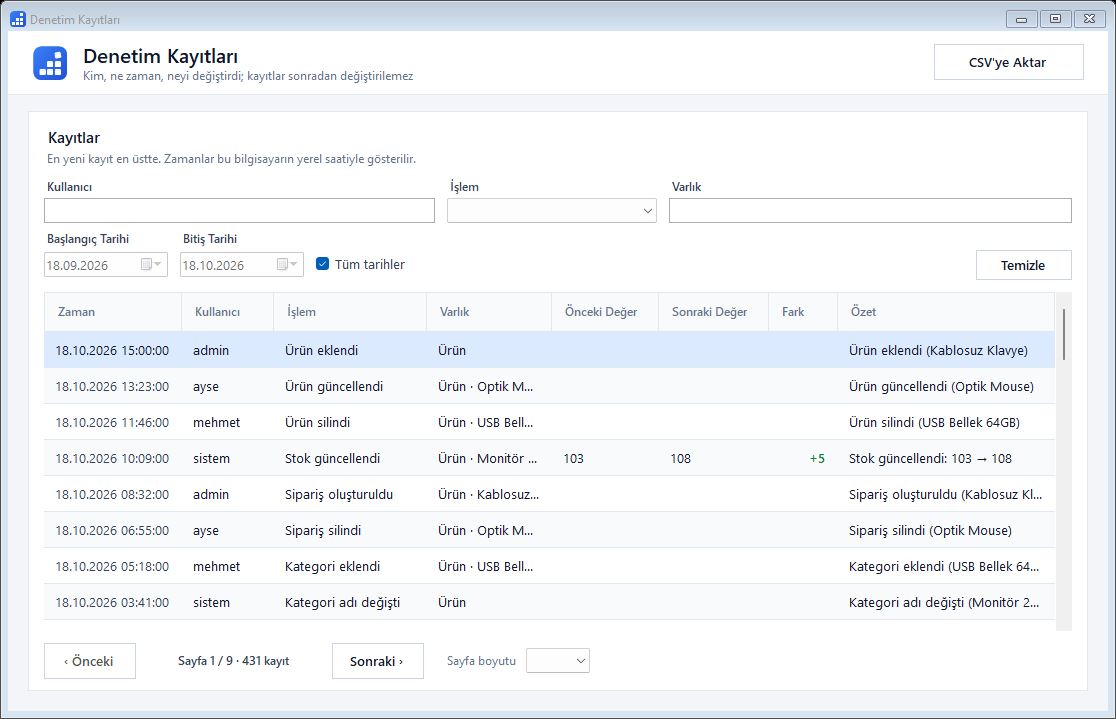
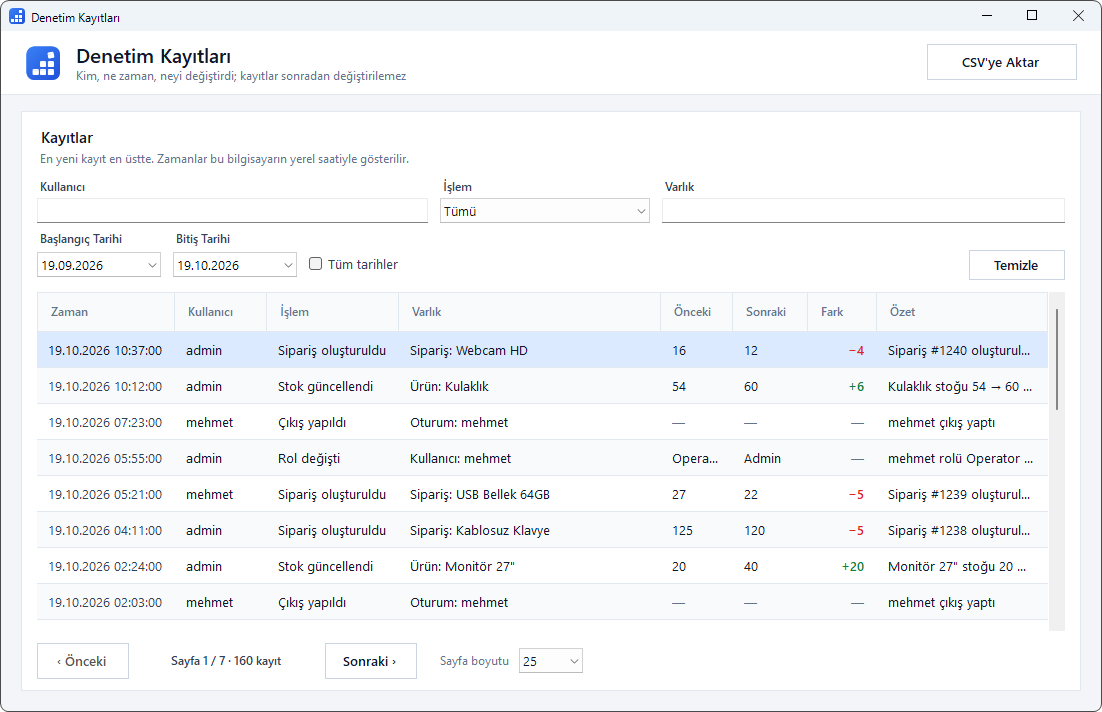
fix(ui): clearer asset column in audit log and consistent screenshots

diff --git a/tests/StokTakip.UI.Tests/DenetimSutunlariTests.cs b/tests/StokTakip.UI.Tests/DenetimSutunlariTests.cs
@@ -1,0 +1,68 @@
+using System.Drawing;
+using System.Windows.Forms;
+using NSubstitute;
+using StokTakip.Application.Denetim;
+using StokTakip.Domain;
+using StokTakip.Presenters;
+using StokTakip.Views;
+
+namespace StokTakip.UI.Tests;
+
+public class DenetimSutunlariTests
+{
+    private static DenetimKaydiDto Kayit(string tur, int? id, string? ad, string? eski = null, string? yeni = null, int? fark = null) =>
+        new(1, new DateTime(2026, 10, 18, 9, 0, 0, DateTimeKind.Utc), 1, "admin", DenetimIslemi.UrunGuncellendi, tur, id, ad, eski, yeni, fark, "özet");
+
+    [Fact]
+    public void Varlik_turu_ve_adi_kisa_bicimde_birlesir()
+    {
+        var presenter = new DenetimKayitlariPresenter(Substitute.For<Microsoft.Extensions.DependencyInjection.IServiceScopeFactory>(), TimeProvider.System);
+
+        Assert.Equal("Ürün: Optik Mouse", presenter.SatirOlustur(Kayit("Ürün", 2, "Optik Mouse")).Varlik);
+        Assert.Equal("Sipariş #7", presenter.SatirOlustur(Kayit("Sipariş", 7, null)).Varlik);
+        Assert.Equal("Oturum", presenter.SatirOlustur(Kayit("Oturum", null, null)).Varlik);
+    }
+
+    [Fact]
+    public void Varlik_sutunu_varsayilan_boyutta_okunur_bos_degerler_isaretlenir_ve_ipucu_tam_metni_verir()
+        => Sta.Calistir(() =>
+        {
+            using var form = new DenetimKayitlariForm(Substitute.For<IDenetimKayitlariPresenter>());
+            TaniticilariOlustur(form);
+            form.PerformLayout();
+
+            var satirlar = new[]
+            {
+                new DenetimSatiri("18.10.2026 12:00:00", "admin", "Ürün güncellendi", "Ürün: USB Bellek 64GB", "", "", "", null, "USB Bellek 64GB ürünü güncellendi"),
+                new DenetimSatiri("18.10.2026 11:00:00", "ayse", "Stok güncellendi", "Ürün: Optik Mouse", "8", "40", "+32", 32, "Stok güncellendi: 8 → 40"),
+            };
+            ((IDenetimKayitlariView)form).SayfayiGoster(satirlar, 1, 1, satirlar.Length);
+
+            var dgv = (DataGridView)form.Controls.Find("dgvKayitlar", true).Single();
+            DataGridViewColumn varlik = dgv.Columns["Varlik"]!;
+            DataGridViewColumn ozet = dgv.Columns["Ozet"]!;
+            Font font = dgv.DefaultCellStyle.Font ?? dgv.Font;
+            int gereken = TextRenderer.MeasureText(satirlar[0].Varlik, font).Width + dgv.DefaultCellStyle.Padding.Horizontal;
+
+            Assert.True(varlik.Width >= gereken, $"Varlık sütunu dar: {varlik.Width} < {gereken}");
+            Assert.True(varlik.Width >= ozet.Width, $"Varlık ({varlik.Width}) Özet'ten ({ozet.Width}) dar.");
+            Assert.Equal(DenetimKayitlariForm.BosDeger, dgv.Rows[0].Cells["EskiDeger"].FormattedValue);
+            Assert.Equal(DenetimKayitlariForm.BosDeger, dgv.Rows[0].Cells["Fark"].FormattedValue);
+            Assert.Equal("8", dgv.Rows[1].Cells["EskiDeger"].FormattedValue);
+            Assert.Equal("Ürün: USB Bellek 64GB", dgv.Rows[0].Cells["Varlik"].ToolTipText);
+
+            form.ClientSize = form.MinimumSize;
+            form.PerformLayout();
+            Assert.True(varlik.Width >= TextRenderer.MeasureText("Ürün: Optik Mouse", font).Width, $"Küçük pencerede Varlık sütunu çok dar: {varlik.Width}");
+            Assert.False(form.Visible);
+        });
+
+    private static void TaniticilariOlustur(Control kontrol)
+    {
+        _ = kontrol.Handle;
+        foreach (Control alt in kontrol.Controls)
+        {
+            TaniticilariOlustur(alt);
+        }
+    }
+}

diff --git a/src/StokTakip.UI/DenetimKayitlariForm.cs b/src/StokTakip.UI/DenetimKayitlariForm.cs
@@ -13,6 +13,7 @@ namespace StokTakip
     public partial class DenetimKayitlariForm : Form, IDenetimKayitlariView
     {
         private const int VarsayilanSayfaBoyutu = 50;
+        internal const string BosDeger = "—";
 
         private readonly BindingList<DenetimSatiri> _kayitlar = new BindingList<DenetimSatiri>();
         private readonly YuklemeGostergesi _yuklemeGostergesi;
@@ -37,10 +38,10 @@ namespace StokTakip
             bsKayitlar.DataSource = _kayitlar;
             dgvKayitlar.DataBindingComplete += (s, e) =>
             {
-                colVarlik.FillWeight = 110;
-                colEskiDeger.FillWeight = 60;
-                colYeniDeger.FillWeight = 60;
-                colOzet.FillWeight = 190;
+                colVarlik.FillWeight = 200;
+                colEskiDeger.FillWeight = 55;
+                colYeniDeger.FillWeight = 55;
+                colOzet.FillWeight = 130;
                 colFark.DefaultCellStyle.Alignment = DataGridViewContentAlignment.MiddleRight;
                 colFark.HeaderCell.Style.Alignment = DataGridViewContentAlignment.MiddleRight;
                 colZaman.DefaultCellStyle.ForeColor = Theme.Palette.TextSecondary;
@@ -291,7 +292,22 @@ namespace StokTakip
 
         private void dgvKayitlar_CellFormatting(object sender, DataGridViewCellFormattingEventArgs e)
         {
-            if (e.RowIndex < 0 || e.ColumnIndex != colFark.Index || e.RowIndex >= dgvKayitlar.Rows.Count
+            if (e.RowIndex < 0 || e.RowIndex >= dgvKayitlar.Rows.Count)
+            {
+                return;
+            }
+
+            bool degerSutunu = e.ColumnIndex == colEskiDeger.Index || e.ColumnIndex == colYeniDeger.Index || e.ColumnIndex == colFark.Index;
+            if (degerSutunu && string.IsNullOrEmpty(e.Value as string))
+            {
+                e.Value = BosDeger;
+                e.FormattingApplied = true;
+                e.CellStyle.ForeColor = Theme.Palette.TextMuted;
+                e.CellStyle.SelectionForeColor = Theme.Palette.TextMuted;
+                return;
+            }
+
+            if (e.ColumnIndex != colFark.Index
                 || !(dgvKayitlar.Rows[e.RowIndex].DataBoundItem is DenetimSatiri satir) || satir.FarkDegeri is not int fark || fark == 0)
             {
                 return;
@@ -300,6 +316,15 @@ namespace StokTakip
             e.CellStyle.ForeColor = fark > 0 ? Theme.Palette.Success : Theme.Palette.Danger;
             e.CellStyle.SelectionForeColor = e.CellStyle.ForeColor;
             e.CellStyle.Font = Theme.GridEmphasisFont;
+        }
+
+        private void dgvKayitlar_CellToolTipTextNeeded(object sender, DataGridViewCellToolTipTextNeededEventArgs e)
+        {
+            if (e.RowIndex >= 0 && e.RowIndex < dgvKayitlar.Rows.Count && e.ColumnIndex == colVarlik.Index
+                && dgvKayitlar.Rows[e.RowIndex].DataBoundItem is DenetimSatiri satir)
+            {
+                e.ToolTipText = satir.Varlik;
+            }
         }
 
         private void DenetimKayitlariForm_Load(object sender, EventArgs e)

diff --git a/src/StokTakip.UI/DenetimKayitlariForm.Designer.cs b/src/StokTakip.UI/DenetimKayitlariForm.Designer.cs
@@ -394,6 +394,7 @@ namespace StokTakip
             this.dgvKayitlar.SelectionMode = System.Windows.Forms.DataGridViewSelectionMode.FullRowSelect;
             this.dgvKayitlar.TabIndex = 4;
             this.dgvKayitlar.CellFormatting += new System.Windows.Forms.DataGridViewCellFormattingEventHandler(this.dgvKayitlar_CellFormatting);
+            this.dgvKayitlar.CellToolTipTextNeeded += new System.Windows.Forms.DataGridViewCellToolTipTextNeededEventHandler(this.dgvKayitlar_CellToolTipTextNeeded);
             this.dgvKayitlar.Resize += new System.EventHandler(this.dgvKayitlar_Resize);
             //
             // colZaman
@@ -430,14 +431,14 @@ namespace StokTakip
             // colEskiDeger
             //
             this.colEskiDeger.DataPropertyName = "EskiDeger";
-            this.colEskiDeger.HeaderText = "Önceki Değer";
+            this.colEskiDeger.HeaderText = "Önceki";
             this.colEskiDeger.Name = "EskiDeger";
             this.colEskiDeger.ReadOnly = true;
             //
             // colYeniDeger
             //
             this.colYeniDeger.DataPropertyName = "YeniDeger";
-            this.colYeniDeger.HeaderText = "Sonraki Değer";
+            this.colYeniDeger.HeaderText = "Sonraki";
             this.colYeniDeger.Name = "YeniDeger";
             this.colYeniDeger.ReadOnly = true;
             //

diff --git a/src/StokTakip.UI/Presenters/DenetimKayitlariPresenter.cs b/src/StokTakip.UI/Presenters/DenetimKayitlariPresenter.cs
@@ -197,7 +197,7 @@ namespace StokTakip.Presenters
         {
             DateTime yerel = TimeZoneInfo.ConvertTimeFromUtc(DateTime.SpecifyKind(k.Zaman, DateTimeKind.Utc), _zaman.LocalTimeZone);
             string varlik = !string.IsNullOrEmpty(k.VarlikAdi)
-                ? $"{k.VarlikTuru} · {k.VarlikAdi}"
+                ? $"{k.VarlikTuru}: {k.VarlikAdi}"
                 : k.VarlikId is int id ? $"{k.VarlikTuru} #{id.ToString(CultureInfo.InvariantCulture)}" : k.VarlikTuru;
             return new DenetimSatiri(
                 yerel.ToString("dd.MM.yyyy HH:mm:ss", CultureInfo.InvariantCulture),
